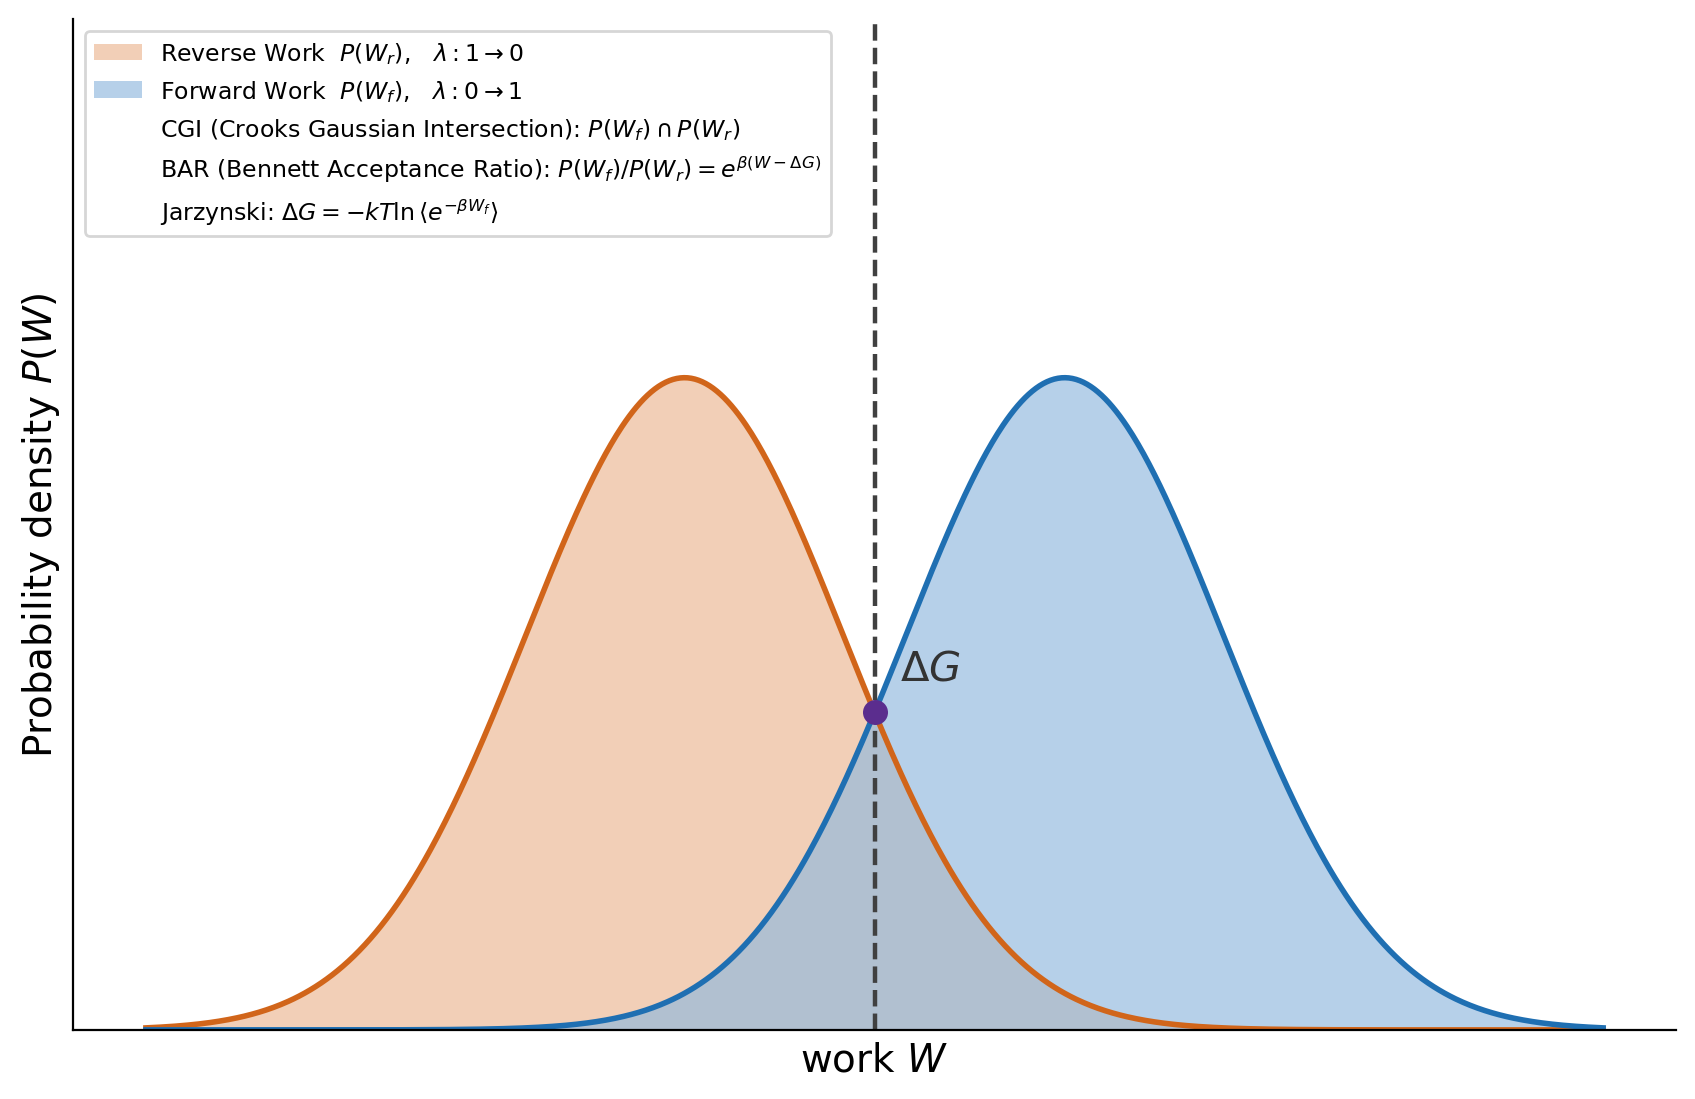
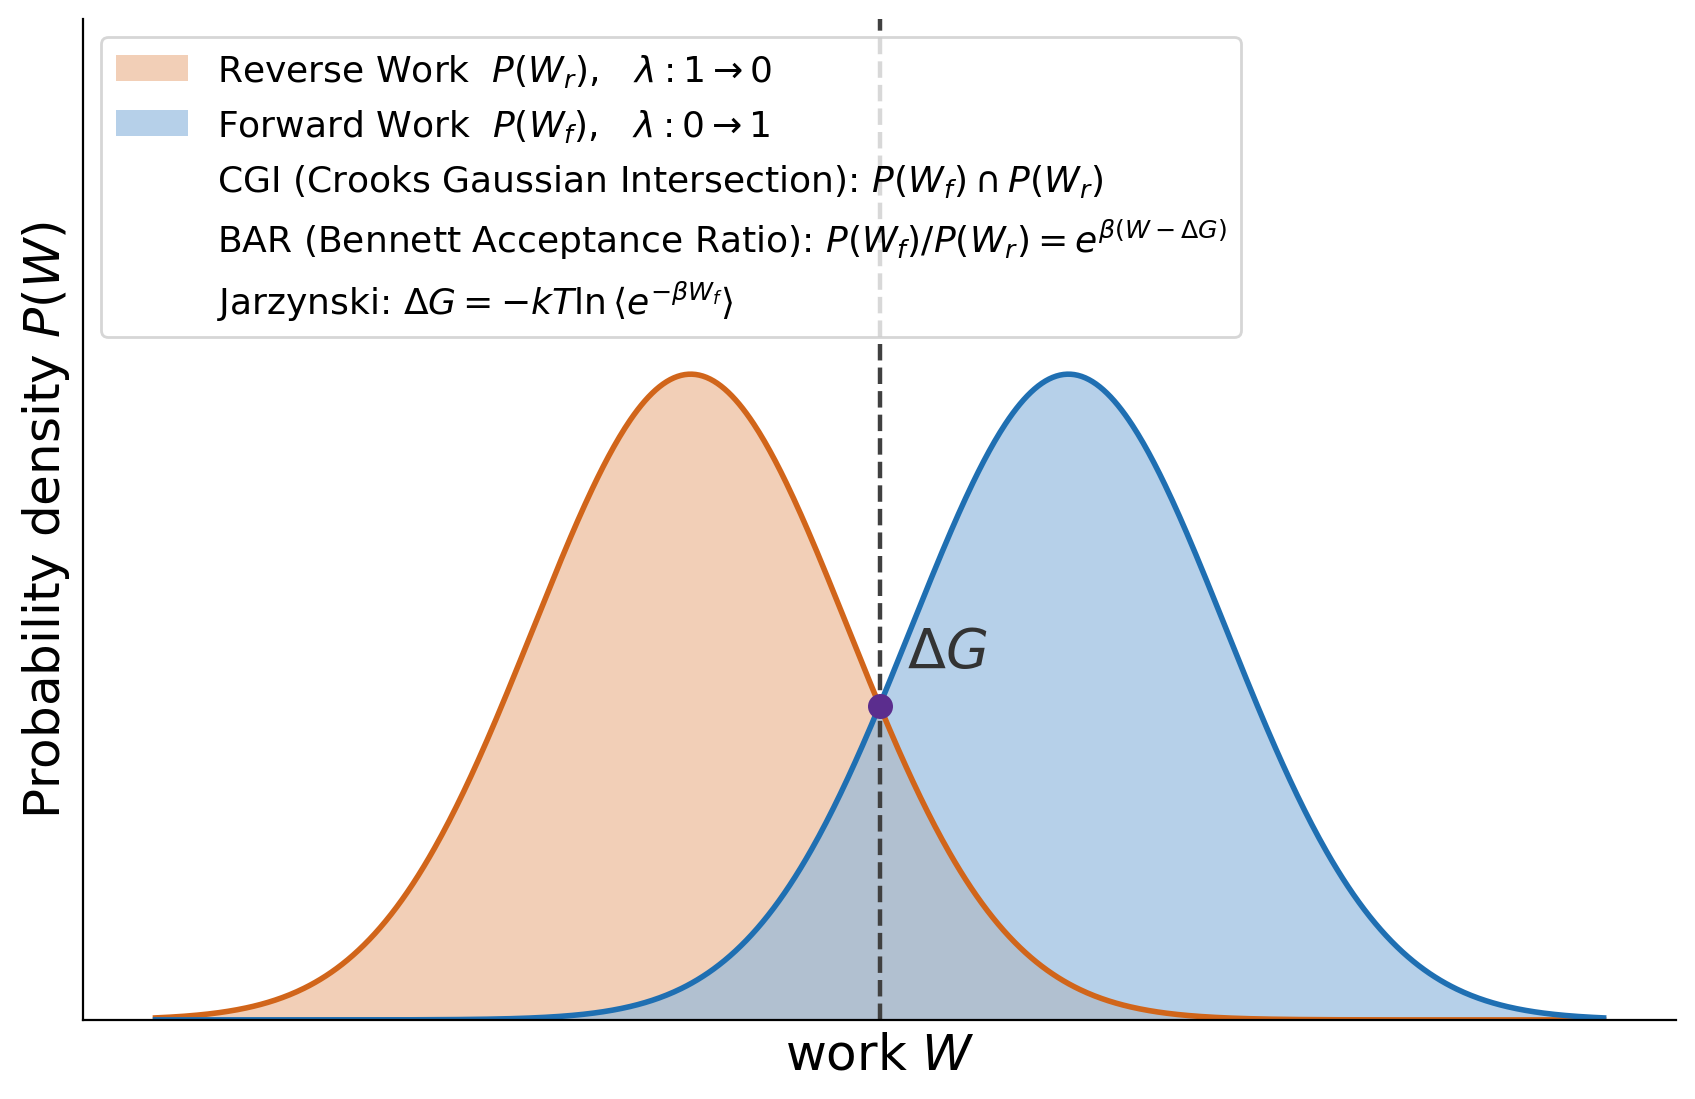
fep_pmx: enlarge type on the work-distribution schematic
Legend 8.5 -> 13pt, axis labels 14 -> 18pt, the dG annotation 15 -> 20pt, promoted
to AXIS_LABEL_FONTSIZE / LEGEND_FONTSIZE / ANNOT_FONTSIZE constants.

The 8.5pt legend was a leftover constraint from when it had to span a narrow
two-panel layout; on a single 8.6-inch panel there was no reason for it. These are
schematics meant to be read at a glance, so type is now sized accordingly.

diff --git a/scripts/fep_pmx/plot_protocol_schematic.py b/scripts/fep_pmx/plot_protocol_schematic.py
@@ -43,6 +43,12 @@ OUT_DIR = Path("results/analysis/fep_pmx/protocol_schematic")
 # and 7.2x3.9, i.e. visibly different aspect ratios).
 FIGSIZE = (8.6, 5.6)
 
+# These are schematics meant to be read at a glance, so type is sized generously.
+# The legend was 8.5pt only because it once had to span a narrow two-panel layout.
+AXIS_LABEL_FONTSIZE = 18
+LEGEND_FONTSIZE = 13
+ANNOT_FONTSIZE = 20
+
 EST_CGI = r"CGI (Crooks Gaussian Intersection): $P(W_f) \cap P(W_r)$"
 EST_BAR = r"BAR (Bennett Acceptance Ratio): $P(W_f)/P(W_r) = e^{\beta(W - \Delta G)}$"
 EST_JARZ = r"Jarzynski: $\Delta G = -kT\ln\langle e^{-\beta W_f}\rangle$"
@@ -228,12 +234,12 @@ def plot_work_distributions(out_path: Path) -> None:
     ax.axvline(0.0, color="0.25", lw=1.6, ls="--")
     ax.plot([0.0], [_gauss(0.0, mu_f, sig)], "o", color="#5b2d8e", markersize=8, zorder=5)
     ax.annotate(r"$\Delta G$", (0.0, _gauss(0.0, mu_f, sig)),
-                textcoords="offset points", xytext=(9, 12), fontsize=15,
+                textcoords="offset points", xytext=(10, 14), fontsize=ANNOT_FONTSIZE,
                 color="0.2", fontweight="bold")
 
     ax.set_ylim(0, _gauss(mu_f, mu_f, sig) * 1.55)
-    ax.set_xlabel("work $W$", fontsize=14)
-    ax.set_ylabel("Probability density $P(W)$", fontsize=14)
+    ax.set_xlabel("work $W$", fontsize=AXIS_LABEL_FONTSIZE)
+    ax.set_ylabel("Probability density $P(W)$", fontsize=AXIS_LABEL_FONTSIZE)
     ax.set_xticks([]); ax.set_yticks([])
     for side in ("top", "right"):
         ax.spines[side].set_visible(False)
@@ -242,7 +248,7 @@ def plot_work_distributions(out_path: Path) -> None:
     blank = plt.Line2D([], [], linestyle="none")
     handles += [blank, blank, blank]
     labels += [EST_CGI, EST_BAR, EST_JARZ]
-    ax.legend(handles, labels, loc="upper left", frameon=True, fontsize=8.5)
+    ax.legend(handles, labels, loc="upper left", frameon=True, fontsize=LEGEND_FONTSIZE)
     fig.tight_layout()
     fig.savefig(out_path, dpi=200, bbox_inches="tight")
     plt.close(fig)
